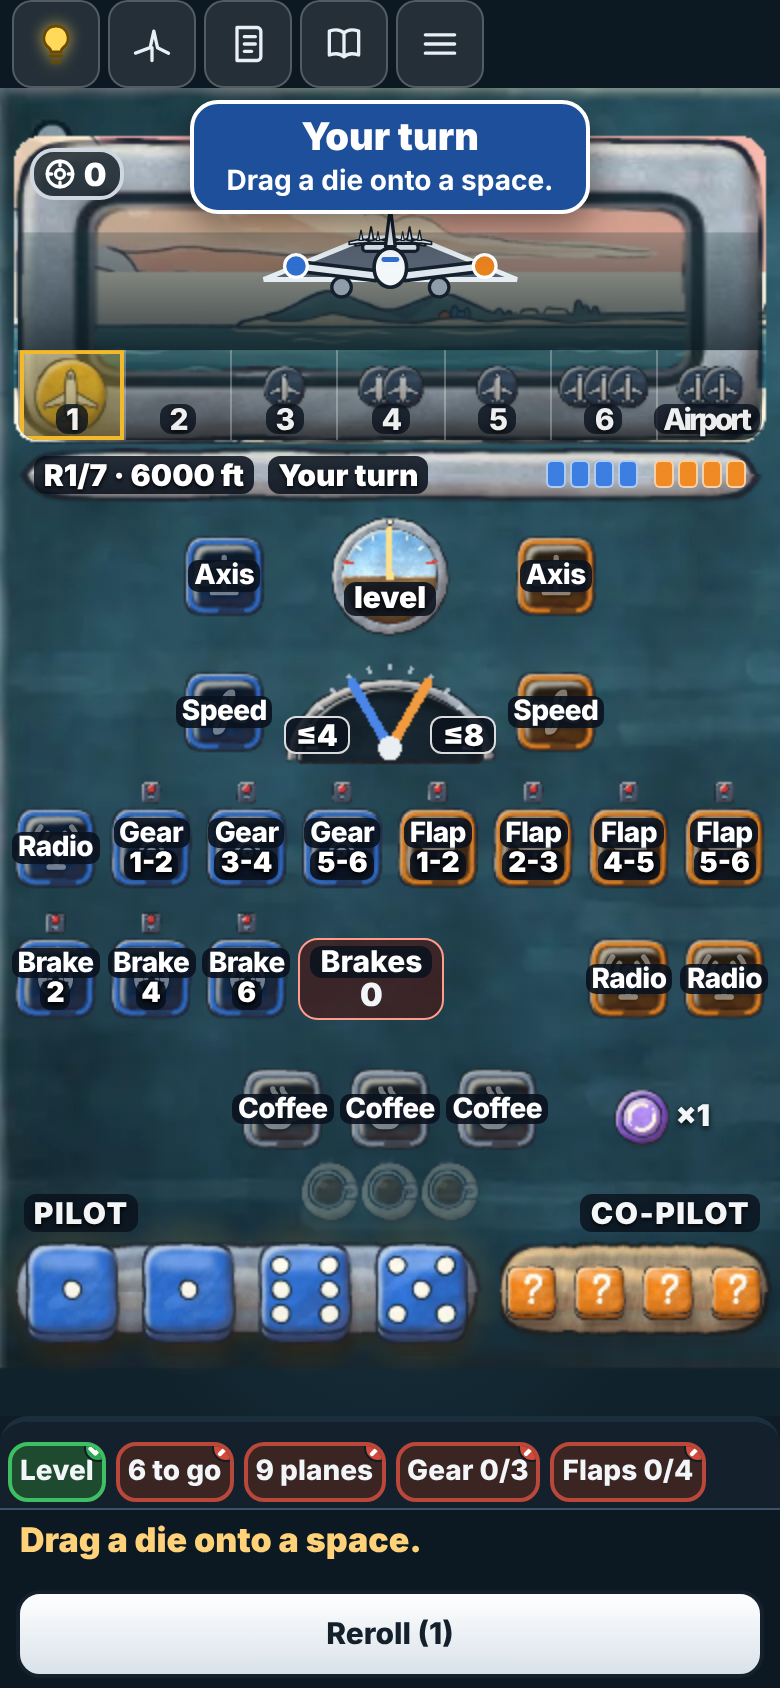
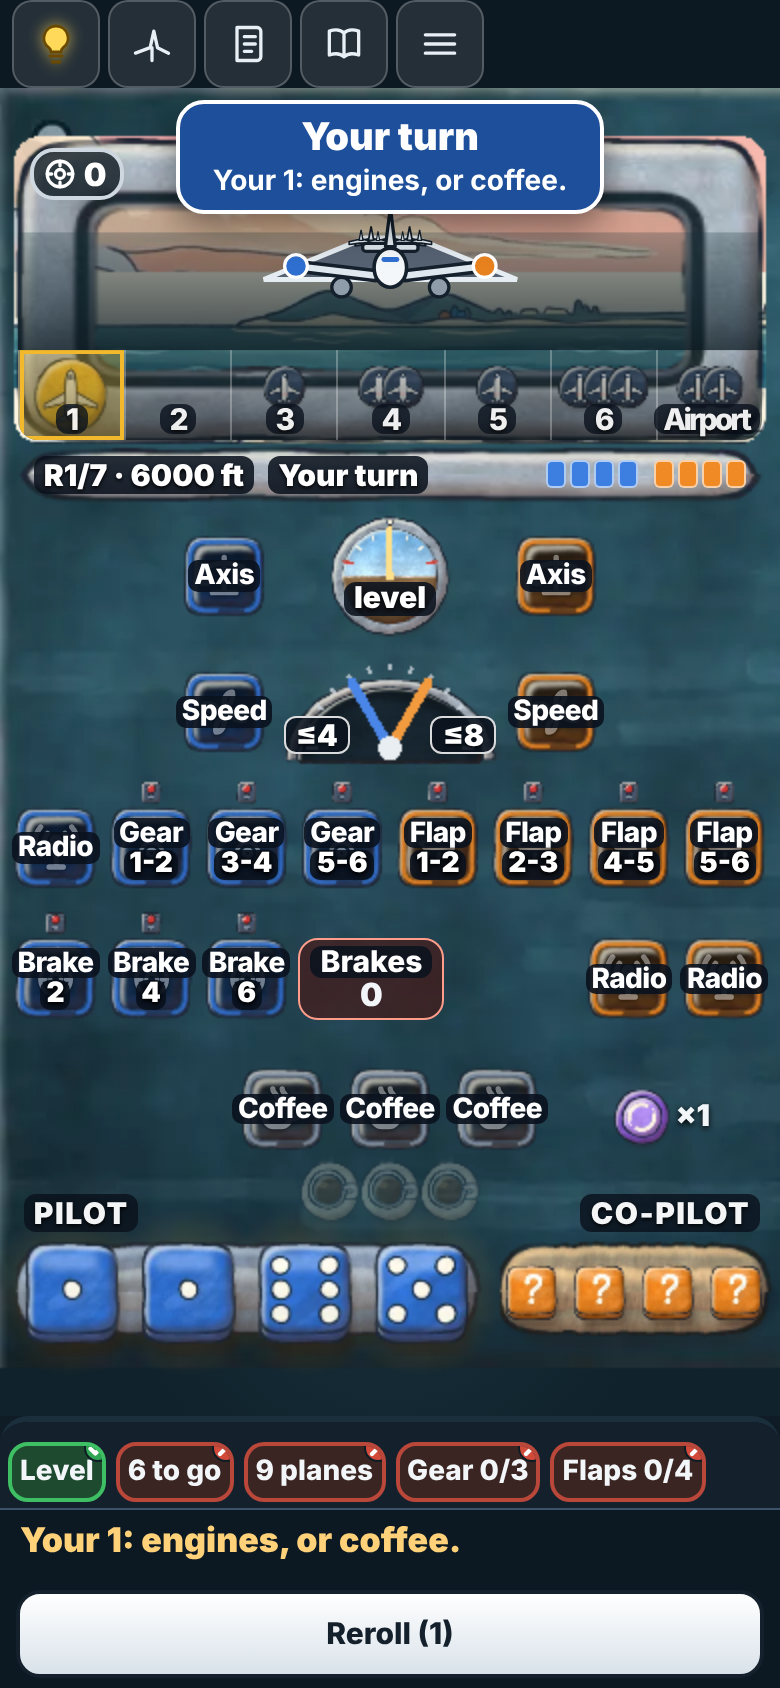
Final Approach: AI brake planning for speed below brakes, die hint prompt, lay-phone runs
- AI: brake odds re-weighted for the strict rule (brake 2 never lands) and it
  now aims for all three brakes; computer crew lands 34% (normal, n=70) vs
  37% before the rule change.
- Play prompt names the next useful move for the die: 'Your 4: engines, or
  radio the plane on 5.' (computer judgement on own info, 12 words max).
- showStart hides a Goal/round card left over the menu (it blocked taps).
- lay-phone.js follows the current title flow and runs to the end.

Changed region(s): [[0.2154, 0.0616, 0.7077, 0.1232], [0.0308, 0.8934, 0.5846, 0.9242], [0.7385, 0.0616, 0.8, 0.1232]]

diff --git a/games-src/final-approach/game/lay-phone.js b/games-src/final-approach/game/lay-phone.js
@@ -1,6 +1,7 @@
 // Phone layout + touch-only play check. node lay-phone.js [WxH,...] [--turns=N] [--dom]   prints "FAIL <size> <check>" lines, then PROBLEMS n
 // Default sizes: 390x844 390x763 390x664 375x553 412x780 844x390 750x342 (isMobile + hasTouch; ?phone=1 is NOT forced: phone mode must switch on by itself).
 // Checks: no page scroll, phone class, tap targets >= 44 px, visible text >= 13 px, no text clipped, slots / dice / windows inside the board and not overlapping,
+// The title Play button starts a quick game now; the setup screen is opened from code (UI.sv = setup).
 // the dock holds the prompt, touch-only play (tap a die, tap a glowing space), drawers, guided tip card, hot-seat pass card, final card fits.
 require('../../phfit.js').guard(2);   // one child process per size, results added up
 const FIT = require('../../phfit.js');
@@ -56,14 +57,14 @@ const TURNS = +((process.argv.find(a => a.startsWith('--turns=')) || '').slice(8
     const phc = await p.evaluate(() => document.documentElement.className); if (!/\bph\b/.test(phc)) fail('phone class missing', phc);
     { const bt = await p.evaluate(() => [...document.querySelectorAll('#start button')].filter(e => e.offsetParent).map(b => b.dataset.a).join()); if (!/play/.test(bt) || !/online/.test(bt)) fail('title buttons', bt); }
     // the title's How to play must open the rules on top of the title (it used to open behind it)
-    { await p.tap('#start .tlink[data-a=rules]'); await p.waitForTimeout(450); const r = await p.evaluate(() => { const d = document.getElementById('rulesd'); const b = d.getBoundingClientRect(); const h = document.elementFromPoint(b.left + b.width / 2, b.top + b.height / 2); return { on: d.classList.contains('on'), top: !!h && d.contains(h) }; }); if (!r.on || !r.top) fail('title How to play is hidden or dead', JSON.stringify(r)); await p.tap('.gx-drawer.on .gx-x'); await p.waitForTimeout(300); }
-    await p.tap('[data-a=play]'); await p.waitForTimeout(350); await scroll('setup'); await shot('0setup'); await targets('setup'); await clipped('setup');
+    if (await p.$('#start .tlink[data-a=rules]')) { await p.tap('#start .tlink[data-a=rules]'); await p.waitForTimeout(450); const r = await p.evaluate(() => { const d = document.getElementById('rulesd'); const b = d.getBoundingClientRect(); const h = document.elementFromPoint(b.left + b.width / 2, b.top + b.height / 2); return { on: d.classList.contains('on'), top: !!h && d.contains(h) }; }); if (!r.on || !r.top) fail('title How to play is hidden or dead', JSON.stringify(r)); await p.tap('.gx-drawer.on .gx-x'); await p.waitForTimeout(300); }
+    await p.evaluate(() => { UI.sv = 'setup'; renderStart(); }); await p.waitForTimeout(350); await scroll('setup'); await shot('0setup'); await targets('setup'); await clipped('setup');
     await p.tap('[data-a=cfgopen]'); await p.waitForTimeout(300); await shot('0config'); await targets('configure'); await clipped('configure');
     { const st = await p.evaluate(() => ({ open: !document.querySelector('#cfg').hidden })); if (!st.open) fail('Configure sheet did not open'); }
     await p.tap('#cfg .cfghead [data-a=cfgclose]'); await p.waitForTimeout(200);
     // ---- guided first flight: tip card, then touch-only play
     await p.evaluate(() => { try { localStorage.clear(); } catch (e) { } UI.seed = 5; AIDELAY = 60; });
-    await p.tap('[data-start=guided]'); await p.waitForTimeout(1500); await scroll('guided'); await shot('1guided');
+    await p.tap('[data-start=vs]'); { const cl = await p.$('.fa-goal [data-ro=go]'); if (cl) await cl.tap(); } await p.waitForTimeout(1500); await scroll('guided'); await shot('1guided');
     { const tip = await p.evaluate(() => !document.querySelector('#pc').hidden); if (tip) fail('a tip card is shown (board-first: the ghost finger teaches)'); else if (false) { const pr = await rect('#pc'); if (pr[3] > H + 1 || pr[0] < -1 || pr[2] > W + 1) fail('tip card outside the screen', JSON.stringify(pr)); if (W < H && pr[3] - pr[1] > .6 * H) fail('tip sheet taller than 60% of the screen', JSON.stringify(pr)); } }
     await panel('guided brief'); await targets('guided brief'); await clipped('guided brief'); await fit('guided brief');
     const m = await p.evaluate(() => { const b = document.querySelector('#bd').getBoundingClientRect(); return { w: b.width, h: b.height, vw: innerWidth, vh: innerHeight, mode: UI.LY && UI.LY.mode, k: UI.LY && +UI.LY.k.toFixed(3) }; }); log('board', JSON.stringify(m), await gx());
@@ -89,7 +90,7 @@ const TURNS = +((process.argv.find(a => a.startsWith('--turns=')) || '').slice(8
     { const over = await p.evaluate(() => !!G.result); if (over) { await shot('5over'); await p.waitForTimeout(400); } }
     for (const id of ['logd', 'rulesd', 'setd', 'crewd']) { await p.tap(`.gx-bar [data-gx=${id}]`); await p.waitForTimeout(450); await scroll('drawer ' + id); if (!(await p.evaluate(i => document.getElementById(i).classList.contains('on'), id))) fail('drawer did not open', id); if (id === 'setd') { await shot('5menu'); await targets('menu'); await fit('menu'); } await p.tap('.gx-drawer.on .gx-x'); await p.waitForTimeout(250); }
     // ---- finish with computers on both seats, then look at the end screen
-    if (await p.evaluate(() => !!G.result)) { await p.evaluate(() => { showStart(); }); await p.waitForTimeout(250); await p.tap('[data-a=play]'); await p.waitForTimeout(250); await p.tap('[data-start=vs]'); await p.waitForTimeout(800); }
+    if (await p.evaluate(() => !!G.result)) { await p.evaluate(() => { showStart(); }); await p.waitForTimeout(250); await p.evaluate(() => { UI.sv = 'setup'; renderStart(); }); await p.waitForTimeout(250); await p.tap('[data-start=vs]'); await p.waitForTimeout(800); }
     await p.evaluate(() => { const k = document.querySelector('#pc [data-a=tipoff]'); if (k) k.click(); G.ai = [true, true]; AIDELAY = 0; schedule(); });
     for (let k = 0; k < 200; k++) { const o = await p.evaluate(() => !!(G && G.result && UI.overShown && document.querySelector('#fx .endb'))); if (o) break; await p.waitForTimeout(400); }
     await p.waitForTimeout(500); await shot('6final'); await scroll('final'); await targets('final'); await clipped('final'); await fit('final');
@@ -102,10 +103,10 @@ const TURNS = +((process.argv.find(a => a.startsWith('--turns=')) || '').slice(8
       if (!/^ok/.test(r)) fail('clock not visible in a timed scenario', r); else { log('clock', r); await shot('9clock'); }
       await p.evaluate(() => { UI.prefs.story = true; }); }
     // ---- story card of a normal flight
-    await p.evaluate(() => { showStart(); }); await p.waitForTimeout(250); await p.tap('[data-a=play]'); await p.waitForTimeout(150); await p.tap('[data-start=vs]'); await p.waitForTimeout(900);
+    await p.evaluate(() => { showStart(); }); await p.waitForTimeout(250); await p.evaluate(() => { UI.sv = 'setup'; renderStart(); }); await p.waitForTimeout(150); await p.tap('[data-start=vs]'); await p.waitForTimeout(900);
     { const st = await p.evaluate(() => !!document.querySelector('#rs.story .stbox')); if (st) { await p.tap('#rs [data-a=rsclose]'); await p.waitForTimeout(300); } if (false) { await shot('8story'); await scroll('story'); await targets('story'); await clipped('story'); await fit('story'); const rr = await rect('.stbox'); if (rr[0] < -1 || rr[2] > W + 1 || rr[3] > H + 1) fail('story card does not fit', JSON.stringify(rr)); await p.tap('#rs [data-a=rsclose]'); await p.waitForTimeout(300); } }
     // ---- hot-seat pass card
-    await p.evaluate(() => { showStart(); }); await p.waitForTimeout(250); await p.tap('[data-a=play]'); await p.waitForTimeout(150);
+    await p.evaluate(() => { showStart(); }); await p.waitForTimeout(250); await p.evaluate(() => { UI.sv = 'setup'; renderStart(); }); await p.waitForTimeout(150);
     await p.tap('[data-start=hot]'); await p.waitForTimeout(900); { const cl = await p.$('#rs.story [data-a=rsclose]'); if (cl) { await cl.tap(); await p.waitForTimeout(300); } }
     // the briefing needs nobody's dice: both crew get ready on the shared screen (no pass card), then the device is handed to the first player
     { const pre = await p.evaluate(() => !document.querySelector('#pass').hidden); if (pre) fail('pass card shown during the briefing (no hidden dice yet)'); }

diff --git a/games-src/final-approach/game/src/ui8.js b/games-src/final-approach/game/src/ui8.js
@@ -14,9 +14,36 @@ function phPrompt() {
     if (p.h === 'wt') return me && v === 1 - p.d.a ? 'Pick one die to swap.' : 'Waiting for the hand-over.';
   }
   if (mine && G.turn === v && G.lad === 1) return UI.sel === -1 || UI.sel == null ? (G.slots['ax' + (1 - v)] ? 'Pick the die that levels it.' : 'Pick a die for the axis.') : 'Drop it on the glowing axis.';
-  if (mine && G.turn === v) { const mi = mandInfo(v); if (mi && mi.lost) return 'Too few dice left!'; if (mi && mi.tight && (UI.sel === -1 || UI.sel == null)) return 'Save a die for Axis and Engines.'; return UI.sel === -1 || UI.sel == null ? 'Drag a die onto a space.' : 'Drop it on a glowing space.'; }
+  if (mine && G.turn === v) { const mi = mandInfo(v); if (mi && mi.lost) return 'Too few dice left!'; if (mi && mi.tight && (UI.sel === -1 || UI.sel == null)) return 'Save a die for Axis and Engines.'; return dieHint(v) || (UI.sel === -1 || UI.sel == null ? 'Drag a die onto a space.' : 'Drop it on a glowing space.'); }
   if (v === 'all') return name(G.turn) + ' is placing.';
   return name(G.turn) + ' is placing...';
+}
+// the next useful hint for one die (the lifted one, else the computer's pick): "Your 4: engines, or radio the plane on 3." (12 words max)
+// Fair: judged on what this seat may know (FA.stripView); the two best spaces for that die by the computer's own cost; cached per state.
+function dieHint(v) {
+  try {
+    const sel = typeof UI.sel === 'number' && UI.sel >= 0 ? UI.sel : null, key = G.seed + ':' + G.evN + ':' + v + ':' + sel + ':' + G.round;
+    if (UI._dh && UI._dh.k === key) return UI._dh.t;
+    const V = FA.stripView(G, v); V.nolog = true; let d = sel;
+    if (d == null) { const m = FA.AI.move(V, v, 'normal', { noMC: true }); d = m && m.t === 'place' && typeof m.d === 'number' ? m.d : null; }
+    let t = '';
+    if (d != null && G.dice[v][d] && !G.dice[v][d].u) {
+      const val = G.dice[v][d].v, best = {};
+      for (const m of FA.validMoves(V, v)) {
+        if (m.t !== 'place' || m.d !== d || (m.c || 0) !== 0) continue;
+        const S = FA.cloneLite(V); FA.performMove(S, m, v, true); const c = FA.AI.cost(S, v), g = FA.SLOT[m.to].grp;
+        if (!best[g] || c < best[g].c) best[g] = { c, k: m.to };
+      }
+      const word = (g, k) => {
+        if (g === 'radio') { const at = G.pl.pos + val - 1; return G.planes[at - 1] ? 'radio the plane on ' + at : null; }
+        if (g === 'axis') { const o = G.slots['ax' + (1 - v)]; return o && o.v === val ? 'axis to level' : 'axis'; }
+        return { engines: 'engines', gear: 'gear', flaps: 'flaps', brakes: 'brake ' + val, conc: 'coffee', kero: 'fuel', intern: 'trainee', ice: 'icy brake' }[g] || g;
+      };
+      const ws = Object.keys(best).sort((a, b) => best[a].c - best[b].c).map(g => word(g, best[g].k)).filter(Boolean).slice(0, 2);
+      if (ws.length) t = 'Your ' + val + ': ' + ws[0] + (ws[1] ? ', or ' + ws[1] : '') + '.';
+    }
+    UI._dh = { k: key, t }; return t;
+  } catch (e) { return ''; }
 }
 // ---------- the overlay layer: round animation, ghost finger, dragged die ----------
 function fxLayer() { const bd = $('#bd'); if (!bd) return null; let f = $('#fx'); if (!f) { f = h('div#fx', { 'aria-hidden': 'true' }); bd.appendChild(f); } return f; }

diff --git a/games-src/final-approach/game/src/ai.js b/games-src/final-approach/game/src/ai.js
@@ -21,7 +21,7 @@ if (!FA.AIW && typeof require === 'function') { try { require('./aiw.js'); } cat
 // ---------- model constants (task success rates per round) ----------
 const W = AI.W = {
   disaster: 7, choice: 2.6,
-  planeS: 0.30, flapQ: 0.333, flapM: 3.0, gearM: 2.6, brakeM: 3.2, brakeP: 0.3, brk2: 0.06, brk4: 0.33, brk6: 0.7, brakeCoffee: 0.30, iceP: 0.30, internP: 0.8,
+  planeS: 0.30, flapQ: 0.333, flapM: 3.0, gearM: 2.6, brakeM: 3.2, brakeP: 0.3, brk2: 0, brk4: 0.15, brk6: 0.5, brakeCoffee: 0.30, iceP: 0.30, internP: 0.8,
   ax0: 0.86, ax1: 0.66, ax2: 0.42, axR: 0.05, axCoffee: 0.05, axis1: 0.15, axis2: 0.5, tab: 0.5, fuelK: 1.1, leakAvg: 2.5, keroAvg: 2.8, eff: 0.8, lag: 1
 };
 const FN = ['pairA_n', 'pairA_f', 'pairE_n', 'pairE_f', 'sched', 'planes', 'imminent', 'flaps', 'gear', 'brake', 'intern', 'axisBal', 'fuel', 'tab', 'overload', 'coffee', 'coffeeLate', 'reroll', 'burn', 'bias'];
@@ -180,8 +180,8 @@ function features(S, me) {
     }
   }
   else {
-    // all three brakes matter: the final engine pair must stay at or under the brake value (2, 4 or 6), and P(sum <= 6) is about twice P(sum <= 4)
-    const nb = S.pl.sw.br[0] + S.pl.sw.br[1] + S.pl.sw.br[2]; brLeft = Math.max(0, 2 - nb);
+    // all three brakes matter: the final engine pair must stay BELOW the brake value (2, 4 or 6); P(sum <= 5) is about 3x P(sum <= 3), brake 2 never lands
+    const nb = S.pl.sw.br[0] + S.pl.sw.br[1] + S.pl.sw.br[2]; brLeft = Math.max(0, 3 - nb);
     if (!(final && inPlace)) {
       const R = Math.max(0, Math.round(Rf)), pr = Math.min(0.6, W.brakeP + 0.05 * Math.min(S.coffee, 2) + (S.rrHand ? 0.03 : 0));
       const succ = [0, 0.06, 0.33, 0.55][0], sb = b => b >= 3 ? W.brk6 : b === 2 ? W.brk4 : b === 1 ? W.brk2 : 0;

diff --git a/games-src/final-approach/game/src/ui5.js b/games-src/final-approach/game/src/ui5.js
@@ -54,7 +54,7 @@ function onlineEl() {
     h('p.ssub', 'Host a flight and send a friend the code or the link. Browsers connect directly; each of you only ever sees your own dice. An empty seat goes to the computer.'),
     h('details.online#onl', { open: true }, h('summary', 'Free, peer to peer'), h('div#netblock', netInner())));
 }
-function showStart() { try { GX.close(); } catch (e) { } closePass(); const pc = $('#pc'); if (pc) { pc.hidden = true; pc.innerHTML = ''; } UI.sv = 'title'; UI.cfgOpen = false; closeRS(); clearTimeout(UI.tm); UI.seq++; renderStart(); }
+function showStart() { try { GX.close(); } catch (e) { } try { if (typeof roHide === 'function') roHide(); } catch (e) { }   /* a Goal or round card never stays over the menu */ closePass(); const pc = $('#pc'); if (pc) { pc.hidden = true; pc.innerHTML = ''; } UI.sv = 'title'; UI.cfgOpen = false; closeRS(); clearTimeout(UI.tm); UI.seq++; renderStart(); }
 function loadSave() { try { const o = JSON.parse(localStorage.getItem('fa_save')); if (!o || !o.G) return false; G = o.G; UI.mode = o.mode; UI.seat = o.seat; UI.holder = o.mode === 'hot' ? -1 : o.seat; UI.cfg = o.cfg; UI.started = true; UI.sel = -1; UI.cof = 0; UI.over = null; UI.overShown = false; UI.coach = { level: UI.prefs.guide || 'off', seen: {}, tip: '' }; UI.rt = G.mods.real ? { left: 60000, last: 0 } : null; const st = $('#start'); if (st) st.hidden = true; render(); sndMusic(); schedule(); return true; } catch (e) { return false; } }
 // ---------- events ----------
 document.addEventListener('click', ev => {
